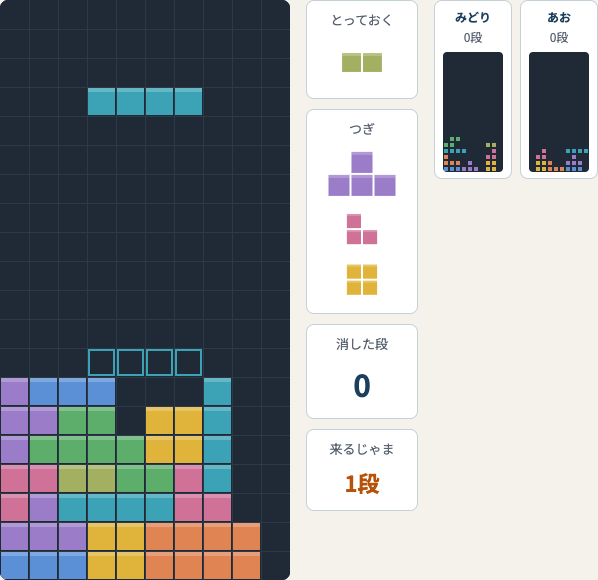
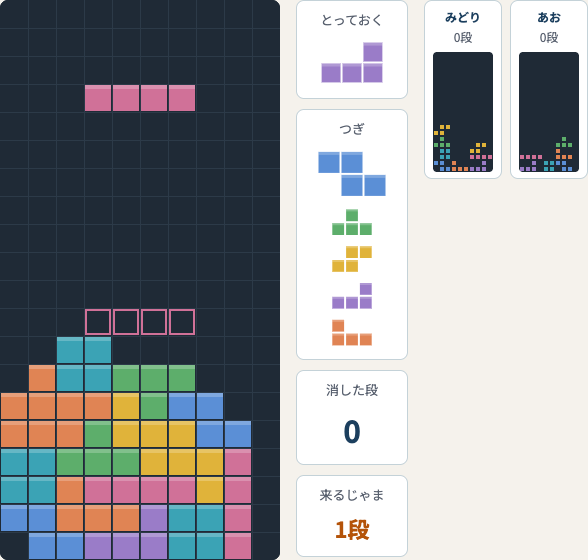
chore(suton-block): サムネイルを7種類の形で撮りなおし、E2E を WebKit でも流せるようにする
- ツール一覧のサムネイルを、裏返しなしの7種類の形で撮りなおした（588×560。撮り方は前回と同じ）
- tests/suton-block/lib.cjs に E2E_BROWSER=webkit を足した（Safari と同じエンジンで流す）
- WebKit の結果と、切断の検証の既知の制約を README に書いた

diff --git a/apps/index.html b/apps/index.html
@@ -1346,7 +1346,7 @@
         <a class="app-card" href="suton-block/" data-added="2026-11-02" data-genre="puzzle" data-slides data-scenes="hiroba bodoge" data-yomi="すとんぶろっく" data-keywords="落ちもの、パズル、ブロック、対戦、ひとりでも、アクション">
           <div class="app-card__icon">
             <span class="material-symbols-rounded" aria-hidden="true">view_quilt</span>
-            <img class="app-card__thumbnail" src="assets/thumbnails/suton-block.png" alt="色とりどりのブロックが積み上がった盤と落ちてくる棒、とっておいたブロック・つぎのブロック・来るじゃま、ほかの2人の小さな盤" width="598" height="580" loading="lazy" decoding="async" />
+            <img class="app-card__thumbnail" src="assets/thumbnails/suton-block.png" alt="色とりどりのブロックが積み上がった盤と落ちてくる棒、とっておいたブロック・つぎのブロック・来るじゃま、ほかの2人の小さな盤" width="588" height="560" loading="lazy" decoding="async" />
           </div>
           <div class="app-card__body">
             <div class="app-card__name">すとんブロック</div>

diff --git a/tests/suton-block/README.md b/tests/suton-block/README.md
@@ -38,3 +38,4 @@ node tests/suton-block/e2e3.cjs
 - じゃまのあく列はでたらめなので、その1ではホストのページの `Math.random` を固定して左はしにし、node で同じ盤を作りなおして（`restoreGame`）縦のブロックが来るまでの手を決めてから、画面で同じキーを押す
 - ポートを別のセッションが使っていたら、相手は止めずに、`firebase.json`・`sync-site.sh`・`lib.cjs` のポートをそろえて変える
 - 終わったらエミュレーターを止め、ポートが空いたことを確かめる
+- `E2E_BROWSER=webkit` を付けると、Safari と同じエンジン（Playwright の WebKit。`playwright install webkit` で入れる）で流す。2026-11-02 に流した結果: その1 76項目・その3 41項目は合格。その2は R13（結果の画面でホストを待つオーバーレイ）だけ落ちる。WebKit では `setOffline` で切ったホストがすぐつなぎなおして `hostConnected` が true にもどるため（ホストがじっさいには切れていない）で、アプリの不具合ではない。切断まわりは Chrome の結果で見る
